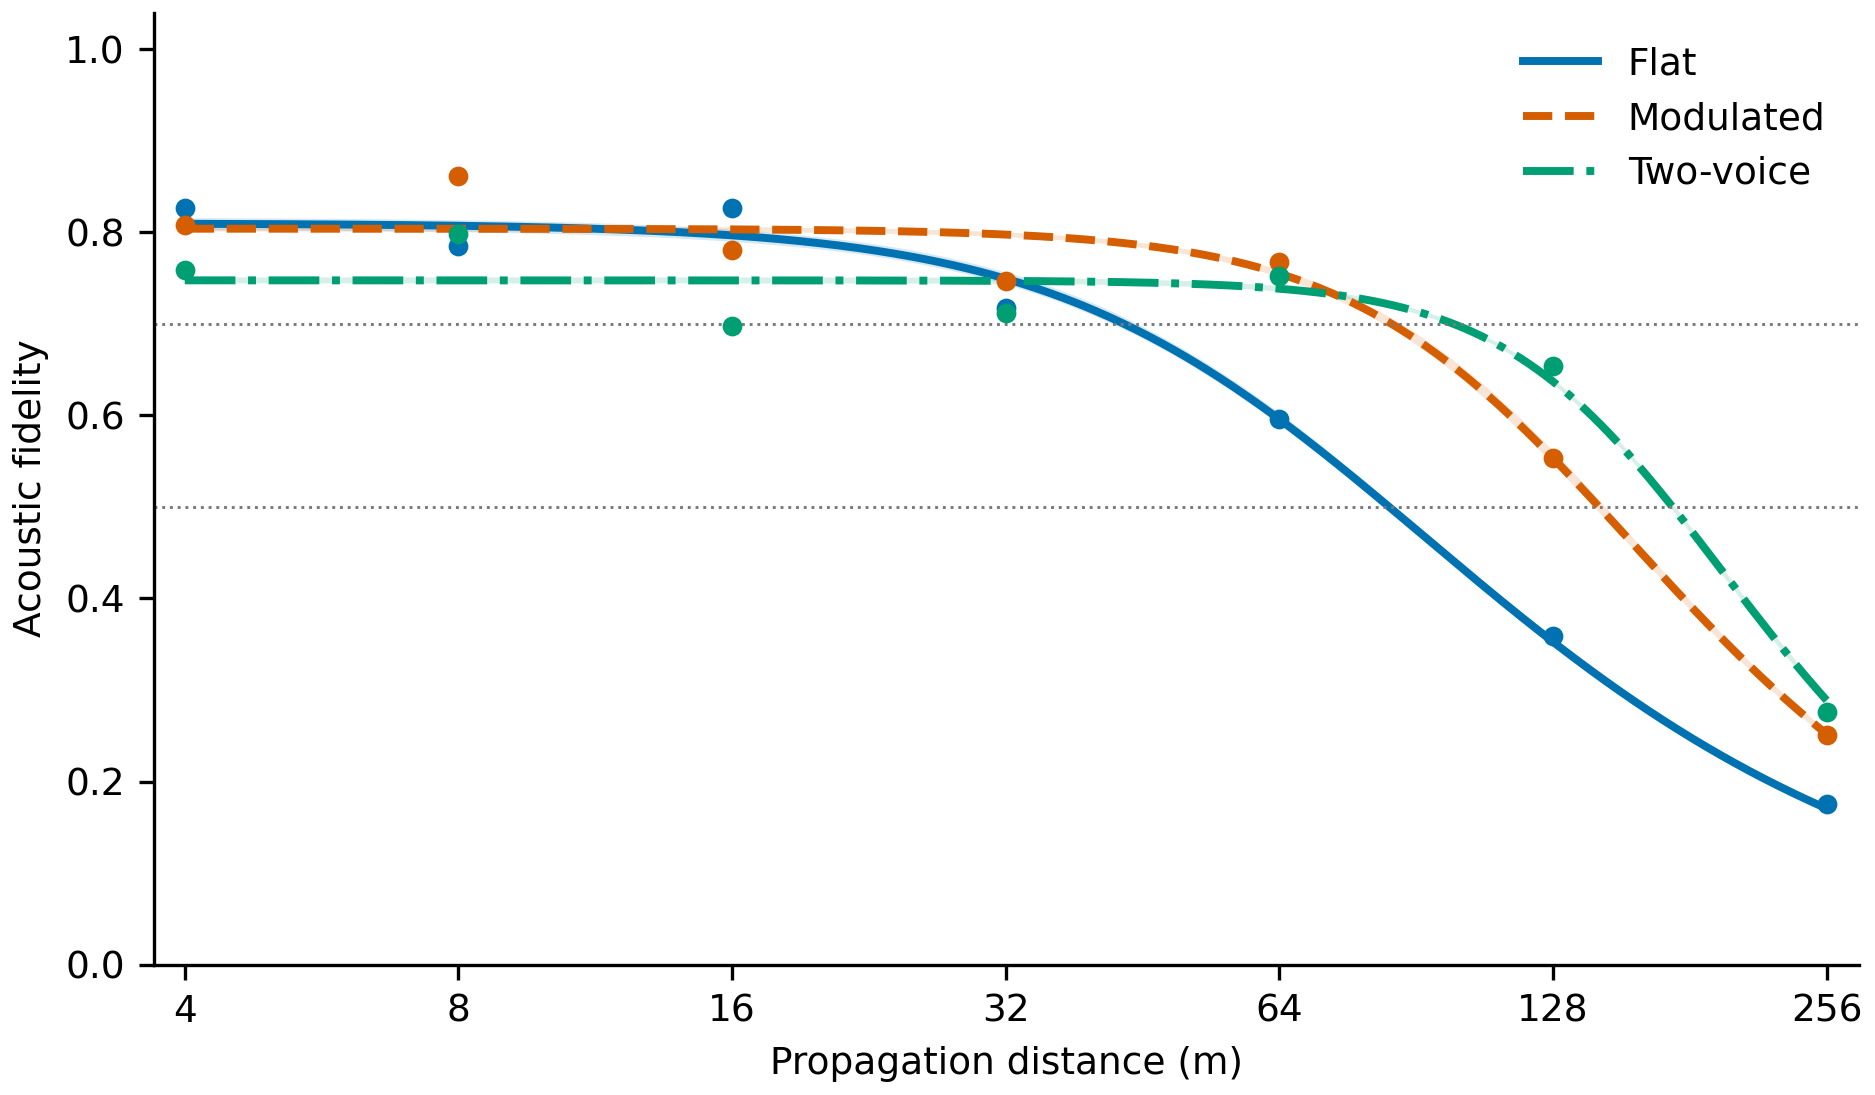
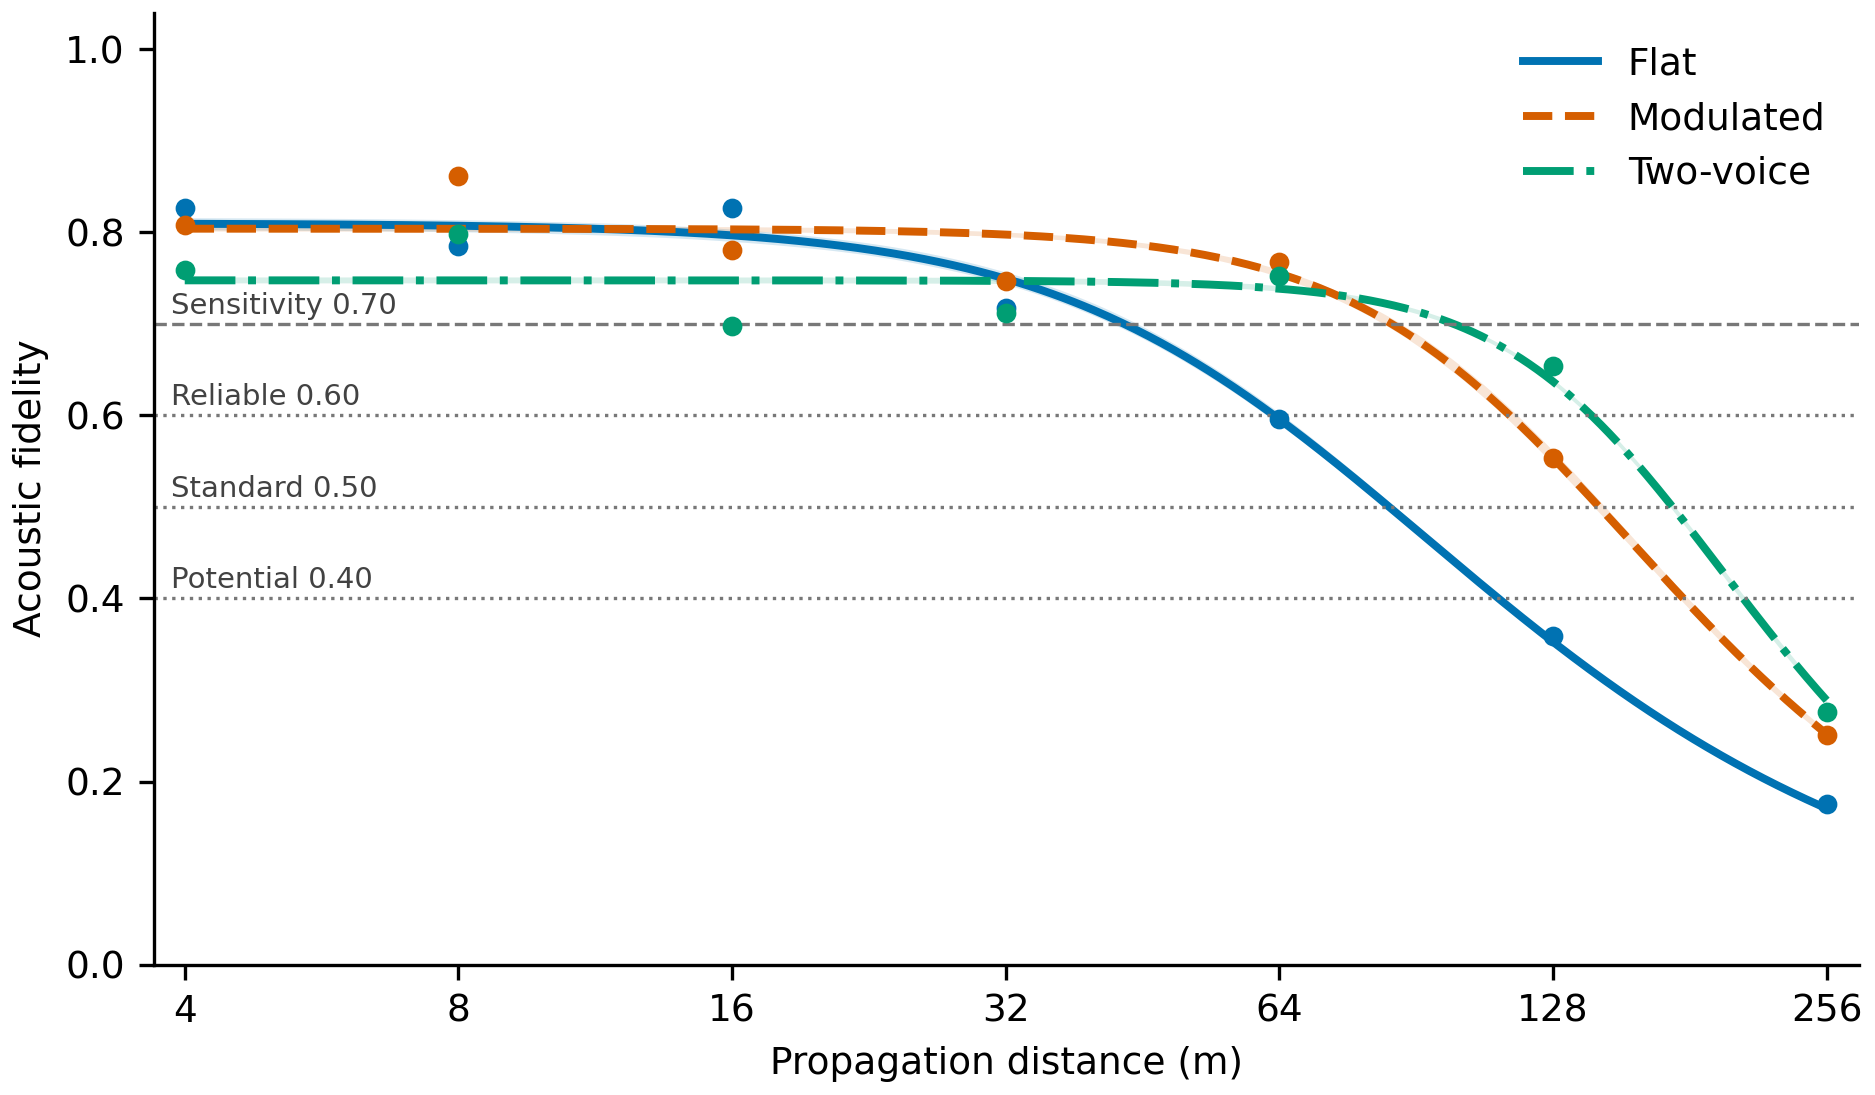
Publish restored contest tables and propagation figure sources

diff --git a/paper/results.tex b/paper/results.tex
@@ -23,20 +23,20 @@ Physical forest gains 0.077 macro F1 (paired 95\% interval 0.022--0.151) and low
 \newcommand{\PropagationResults}{The operational model partially pools effective spreading exponents with log-exponent penalty 0.0025. Its interior and forward RMSEs of 0.04547 and 0.10703 improve on isotonic fitting by 0.02269 (paired 95\% interval 0.02179--0.02368) and 0.14140 (0.13674--0.14681). Separate exponents give 0.04677 and 0.10859. Adding ISO 9613-1 absorption to its matched 0.01-penalty curve lowers forward RMSE by 0.00503 (0.00471--0.00528), yielding 0.10564. Its interior RMSE of 0.04899 ranks behind the production fit under the frozen selection rule. The production curve still overpredicts two-voice fidelity at 256 m by 0.203 in the forward holdout.
 
 \begin{center}\small
-\begin{tabular}{lrr}
+\begin{tabular}{lrrrr}
 \toprule
-Call & Fidelity 0.50 & Fidelity 0.70\\
+Call & Potential (0.40) & Standard (0.50) & Reliable (0.60) & Sensitivity (0.70)\\
 \midrule
-Flat & 84.5 & 43.2\\
-Modulated & 143.9 & 85.0\\
-Two-voice & 173.2 & 99.4\\
+Flat & 111.5 [110.3, 112.7] & 84.5 [83.5, 85.8] & 63.1 [62.0, 64.5] & 43.2 [41.9, 44.7]\\
+Modulated & 178.1 [176.3, 180.3] & 143.9 [142.0, 146.1] & 114.7 [112.9, 116.9] & 85.0 [83.3, 87.1]\\
+Two-voice & 207.2 [205.7, 208.6] & 173.2 [172.2, 174.4] & 141.1 [140.1, 142.0] & 99.4 [98.1, 100.8]\\
 \bottomrule
 \end{tabular}\\[3pt]
-Table 2. Production propagation ranges in metres.
+Table 2. Selected-curve radii in metres with 95\% percentile intervals from 300 wide-row refits. All point and draw crossings fall within the measured 4--256 m range.
 \end{center}
 At 128 m each two-voice representation retains 190 of 300 rows. The paired intervals condition on available scores and unknown acquisition groups. Missing-score completions and alternative representation weights can change rankings, as detailed in the supporting analyses. \coreevidence{docs/core-q2.md}{Propagation validation and support}.
 
-\par\begin{center}\begin{minipage}{.82\linewidth}\centering\includegraphics[width=\linewidth]{core_q2_propagation.png}\\{\small Figure 2. Selected partially pooled curves and empirical equal-weight correlations. Shading shows pointwise 95\% wide-row resampling intervals.}\end{minipage}\end{center}}
+\par\begin{center}\begin{minipage}{.82\linewidth}\centering\includegraphics[width=\linewidth]{core_q2_propagation.png}\\{\small Figure 2. Selected partially pooled curves and empirical equal-weight correlations. Shading shows pointwise 95\% wide-row resampling intervals. Dotted lines show the potential, standard and reliable thresholds. The dashed gray line shows the 0.70 sensitivity.}\end{minipage}\end{center}}
 
 \newcommand{\BehaviorResults}{
 On 278 trials in strict held-date folds with overlapping natural tracks purged, stimulus half-count frequencies, full multinomial and the structured pairwise mask model give mask log loss of 1.1250, 1.2993 and 1.1417, with any-response Brier scores of 0.1778, 0.1698 and 0.1681. A rank-one tilt by the number of scored behaviors gives 1.1021 and 0.1638. Its paired improvements over frequencies remain uncertain and its Brier improvement over full multinomial has a 95\% interval from $-0.0185$ to $+0.0037$. The shrinkage hurdle and nested frequency pool also miss the joint criterion. We retain the full multinomial for distance-specific response combinations. The tail holdout scores 52 trials from pairs with an arm at 125 m or farther, including 33 long-distance trials.
@@ -80,16 +80,17 @@ All four date-bootstrap slope intervals span zero. In the 49 same-distance pairs
 
 \par\begin{center}\begin{minipage}{.99\linewidth}\centering\includegraphics[width=\linewidth]{core_figure3.png}\\{\small Figure 3. Selected cumulative timing distributions pooled across call types and playback distances within each stimulus. Points mark the observed-window cutoffs.}\end{minipage}\end{center}
 \begin{center}\small
-\begin{tabular}{lrrr}
+\begin{tabular}{lrr}
 \toprule
-Call & 50 m & 100 m & 150 m\\
+Recorded endpoint & Natural (s) & Control (s)\\
 \midrule
-Flat & 1.79 & 1.88 & 1.94\\
-Modulated & 1.81 & 1.91 & 1.96\\
-Two-voice & 2.10 & \TVHundred & \TVFar\\
+Earliest response & 2.05 & 2.00\\
+Head raising & 2.00 & 1.00\\
+Vocalizing & 2.90 & 4.80\\
+Approach & 8.00 & Unestimable\\
 \bottomrule
 \end{tabular}\\[3pt]
-Table 4. Archived conditional sensitivity. Predicted median onset of head raising in seconds, conditional on head raising, for natural calls and eight birds.
+Table 4. Selected stimulus-only median latencies among recorded responders at 50, 100 and 150 m and eight birds. Each entry pools calls and distances within stimulus and applies to all three conditions. No control approach was recorded.
 \end{center}
 In the inclusive 25 m windows around 50, 100 and 150 m, there were 37/57, 35/61 and 6/8 natural stimuli with any response, and 4/54, 7/57 and 1/8 controls. Every natural call-by-behavior cell had fewer than five local onsets at 150 m. Flat and modulated head-raising predictions at 150 m draw on the wider dataset, with zero local head-raising events in those strata. Control stimuli produced no observed approaches, so their conditional approach latency is unestimable. Regularized event probabilities can remain positive for unobserved strata. Appendix A reports behavior probabilities and conditional medians separately. No observed response leaves perception unresolved.
 

diff --git a/docs/core-q2.md b/docs/core-q2.md
@@ -15,7 +15,16 @@ The target is equal-weight available-case correlation across the spectrogram, am
 
 Interior folds hold out one of the five interior distances at a time. Forward folds use only shorter distances, with isotonic extrapolation at its last fitted knot. The selected 0.0025 penalty has the smallest interior point RMSE among models meeting the frozen rule. Its paired RMSE changes versus isotonic are −0.02269 [−0.02368, −0.02179] interior and −0.14140 [−0.14681, −0.13674] forward. The frequency-informed fit improves on its matched 0.01 ablation by −0.00057 [−0.00070, −0.00043] interior and −0.00503 [−0.00528, −0.00471] forward. The latter fit has the lowest forward RMSE, while the frozen rule selects using interior RMSE among qualifying fits. Residual forward errors are material. For instance, the selected fit overpredicts two-voice fidelity at 256 m by 0.203 when fitted on shorter distances. At 128 m the two-voice target uses 190 of 300 rows per representation. Intervals are 95% percentiles over the same 300 wide-row resamples as the published forward comparison, conditional on available rows and unknown acquisition groups. The candidate penalties and the distance holdouts have been used in earlier work on these data. [Validation scores](../results/core_q2_scores.csv) · [Paired differences](../results/core_q2_comparisons.csv) · [Signed errors](../results/core_q2_holdouts.csv) · [Held-out row counts](../results/core_q2_support.csv)
 
-The selected full-data curve crosses 0.50 at **84.5, 143.9 and 173.2 m** and 0.70 at **43.2, 85.0 and 99.4 m** for flat, modulated and two-voice calls. The isotonic values are 84.7, 144.6 and 169.7 m at 0.50 and 35.4, 77.7 and 79.3 m at 0.70. All twelve crossings occur inside the measured range. [Decision table](../results/core_q2_decision.csv) · [Full fitted curves](../results/core_q2_curves.csv) · [Threshold crossings](../results/core_q2_radii.csv) · [Figure 2 data](../results/core_q2_propagation.csv)
+The selected curve gives the radii below in flat, modulated and two-voice order, with 95% percentile intervals from the 300 existing wide-row refits.
+
+| Fidelity threshold | Flat (m) | Modulated (m) | Two-voice (m) |
+|---|---:|---:|---:|
+| Potential 0.40 | 111.5 [110.3, 112.7] | 178.1 [176.3, 180.3] | 207.2 [205.7, 208.6] |
+| Standard 0.50 | 84.5 [83.5, 85.8] | 143.9 [142.0, 146.1] | 173.2 [172.2, 174.4] |
+| Reliable 0.60 | 63.1 [62.0, 64.5] | 114.7 [112.9, 116.9] | 141.1 [140.1, 142.0] |
+| Sensitivity 0.70 | 43.2 [41.9, 44.7] | 85.0 [83.3, 87.1] | 99.4 [98.1, 100.8] |
+
+All 12 point crossings and all 3,600 draw crossings fall within 4?256 m. The export records boundary flags and counts for the selected curve. The archived isotonic values are 84.7, 144.6 and 169.7 m at 0.50 and 35.4, 77.7 and 79.3 m at 0.70. [Frozen reporting rule](model-spec.md#core-contest-reporting-thresholds-and-respondent-timing-freeze) ? [Decision table](../results/core_q2_decision.csv) ? [Threshold crossings](../results/core_q2_radii.csv) ? [Figure 2 data](../results/core_q2_propagation.csv)
 
 The Q2 entry point writes the scores, decision, curves, radii and figure to the selected output directory.
 

diff --git a/docs/core-q3.md b/docs/core-q3.md
@@ -32,6 +32,19 @@ All paired log-loss intervals versus the half-count stimulus timing model span z
 
 The full-data prediction grid uses eight birds and the empirical frequencies of the three natural-trial contexts. Every timing fit exports cumulative probabilities at 0, 5, 15, 30 and 60 s. The any-event grid covers 20–150 m in 0.5 m steps for Q4. The individual behaviors use 50, 100 and 150 m. Selected stimulus-only time predictions are constant across distance and call type within each arm. For any event the selected natural probabilities at 5, 15, 30 and 60 s are 0.5282, 0.6373, 0.6479 and 0.6514, and controls are 0.1197, 0.1303, 0.1338 and 0.1444. These time predictions are an arm-level benchmark for Q4. [Prediction grid](../results/core_q3_predictions.csv) · [Local event support](../results/core_q3_support.csv)
 
+## Selected-model representative respondent latency
+
+The empirical stimulus-specific respondent medians at eight birds are the same at 50, 100 and 150 m because the model pools calls and distances within each stimulus.
+
+| Endpoint | Natural median (s) | Control median (s) |
+|---|---:|---:|
+| First response | 2.05 | 2.00 |
+| Head raising | 2.00 | 1.00 |
+| Vocalizing | 2.90 | 4.80 |
+| Approach | 8.00 | Unestimable |
+
+These summaries retain flagged zero latencies and condition on observing the endpoint within 60 s. Control approach has zero scored events. [Representative table and respondent counts](../results/core_q3_representative_latency.csv)
+
 ## Reproduction and Q4 interface
 
     python core_q3.py --data "<attachment directory>/date" --output generated
